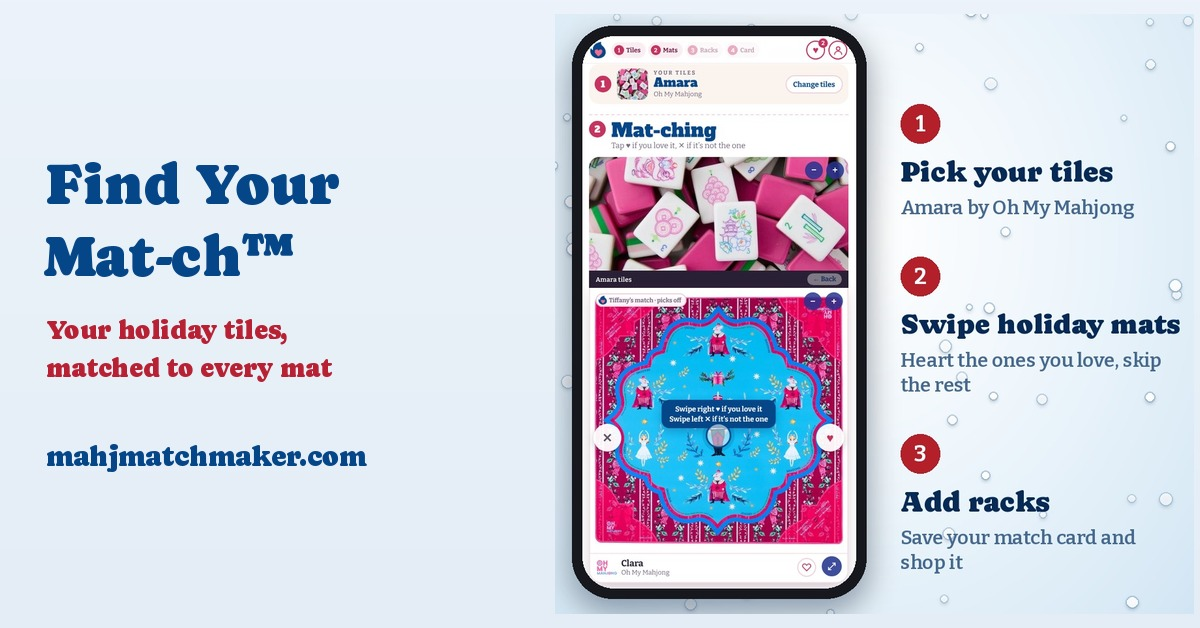
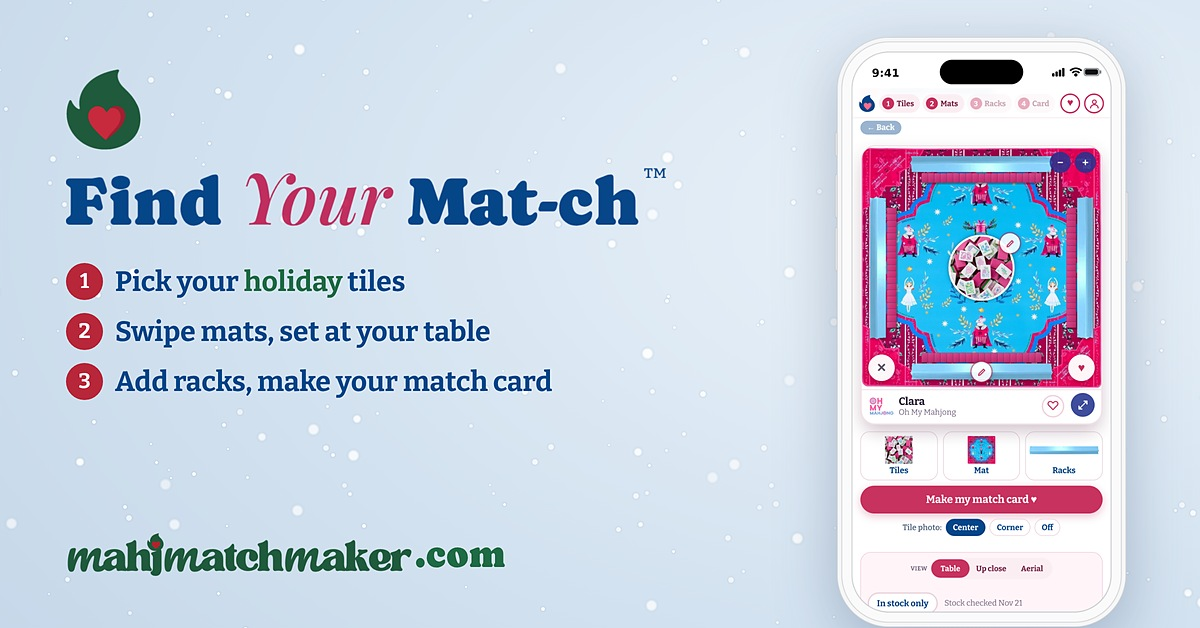
DM cards v2: holiday FYM card (white phone, snow, flame heart) + rainbow album wall from live covers
Claude-Session: https://claude.ai/code/session_01UWZfuwFYQL37EbBDGV2NZF

diff --git a/scripts/social/dmcards/albums_wall.py b/scripts/social/dmcards/albums_wall.py
@@ -1,0 +1,61 @@
+"""Rainbow album wall (Tiffany Nov 23 8:07pm): every LIVE album cover once, no repeats, no unreleased sets, no
+Cypress/Mahjong Row, real 4:5 proportions (never squashed), sorted into a rainbow; center badge in brand colours.
+Usage: albums_wall.py <out.jpg> [W H]   (renders at 2x then downsamples so it is crisp at its real size)"""
+import os, re, sys, random, colorsys
+from PIL import Image, ImageDraw, ImageFont, ImageFilter
+R = '/home/claude/mahjmatchmaker-data/'; F = R + 'scripts/social/tileprofile/fonts/'
+out = sys.argv[1]; OW, OH = (int(sys.argv[2]), int(sys.argv[3])) if len(sys.argv) > 3 else (1200, 628)
+S = 2; W, H = OW * S, OH * S
+live = set(re.findall(r'com/(.+?)-mahjong-tile-matches', open(R + 'config/album-urls.txt').read()))
+live |= {'papaya-spritz', 'spring-love', 'petalee', 'preppy-soiree', 'brownstone-bloom', 'juniper', 'deco-lagoon', 'lilac-soiree'}
+live -= {'cypress-forest'}
+D = R + 'assets/covers/albums/w800/'; covers = []
+for f in sorted(os.listdir(D)):
+    m = re.match(r'\d+-(.+?)-mahjong-tiles', f)
+    if m and m.group(1) in live: covers.append(D + f)
+def hue(p):
+    im = Image.open(p).convert('RGB').resize((40, 50)); px = list(im.getdata()); hs = []
+    for r, g, b in px:
+        h, s, v = colorsys.rgb_to_hsv(r / 255, g / 255, b / 255)
+        if s > .25 and v > .25: hs.append(h)
+    if not hs: return 0.995
+    hs.sort(); h = hs[len(hs) // 2]
+    return (h + 0.08) % 1.0   # start the rainbow at pink/red
+covers.sort(key=hue)
+random.seed(7)
+rows = 4 if OW / OH > 1.5 else 6
+cols = -(-len(covers) // rows)
+cw, ch = W / cols, H / rows
+ch_cov = int(ch * 1.28); cw_cov = int(ch_cov * 0.8)
+bg = Image.new('RGB', (W, H), (240, 232, 226)); canvas = bg.convert('RGBA')
+cells = [(c, r) for c in range(cols) for r in range(rows)]
+for i, p in enumerate(covers):
+    c, r = cells[i]
+    im = Image.open(p).convert('RGB'); im = im.resize((cw_cov, int(cw_cov * im.height / im.width)), Image.LANCZOS)
+    b = 10 * S // 2; card = Image.new('RGBA', (im.width + 2 * b, im.height + 2 * b), (255, 255, 255, 255)); card.paste(im, (b, b))
+    m = Image.new('L', card.size, 0); ImageDraw.Draw(m).rounded_rectangle((0, 0, card.width - 1, card.height - 1), 14 * S // 2, fill=255); card.putalpha(m)
+    card = card.rotate(random.uniform(-7, 7), Image.BICUBIC, expand=True)
+    x = int(c * cw + cw / 2 - card.width / 2 + random.uniform(-.12, .12) * cw); y = int(r * ch + ch / 2 - card.height / 2 + random.uniform(-.1, .1) * ch)
+    sh = Image.new('RGBA', canvas.size, (0, 0, 0, 0)); sh.paste((20, 10, 30, 80), (x + 4 * S, y + 8 * S), card.split()[3])
+    canvas.alpha_composite(sh.filter(ImageFilter.GaussianBlur(7 * S))); canvas.alpha_composite(card, (x, y))
+# center badge
+NAVY = (5, 70, 137); PINK = (200, 50, 95); CREAM = (253, 248, 246)
+bw, bh = int(W * .44), int(H * .44); x0, y0 = (W - bw) // 2, (H - bh) // 2
+sh = Image.new('RGBA', canvas.size, (0, 0, 0, 0)); ImageDraw.Draw(sh).rounded_rectangle((x0, y0 + 12 * S, x0 + bw, y0 + bh + 12 * S), 26 * S, fill=(10, 20, 50, 120))
+canvas.alpha_composite(sh.filter(ImageFilter.GaussianBlur(14 * S)))
+d = ImageDraw.Draw(canvas)
+d.rounded_rectangle((x0, y0, x0 + bw, y0 + bh), 26 * S, fill=CREAM)
+d.rounded_rectangle((x0 + 9 * S, y0 + 9 * S, x0 + bw - 9 * S, y0 + bh - 9 * S), 20 * S, outline=NAVY, width=4 * S)
+wm = Image.open(R + 'assets/brand/mahjmatchmaker-wordmark-notag.png').convert('RGBA'); ww = int(bw * .8); wm = wm.resize((ww, int(wm.height * ww / wm.width)), Image.LANCZOS)
+canvas.alpha_composite(wm, ((W - ww) // 2, y0 + int(bh * .13)))
+bit = lambda n, w=700: ImageFont.truetype(F + ('bitter-latin-700-normal.woff2' if w == 700 else 'bitter-latin-600-normal.woff2'), n)
+cap = lambda n: ImageFont.truetype(F + 'Caprasimo.ttf', n)
+t = 'MATCHING MAHJONG TILES, MATS & RACKS'; f = bit(int(bh * .062)); sp = 2 * S
+tw = sum(d.textlength(ch_, font=f) + sp for ch_ in t) - sp; py = y0 + int(bh * .47); hh = int(bh * .13)
+d.rounded_rectangle(((W - tw) / 2 - 18 * S, py, (W + tw) / 2 + 18 * S, py + hh), hh // 2, fill=PINK)
+x = (W - tw) / 2
+for ch_ in t: d.text((x, py + hh / 2), ch_, font=f, fill=(255, 255, 255), anchor='lm'); x += d.textlength(ch_, font=f) + sp
+d.text((W / 2, y0 + int(bh * .76)), f'{len(covers)}+ tile set albums and counting'.replace(f'{len(covers)}+', '40+'), font=cap(int(bh * .095)), fill=PINK, anchor='mm')
+d.text((W / 2, y0 + int(bh * .89)), 'mahjmatchmaker.com', font=bit(int(bh * .075), 600), fill=NAVY, anchor='mm')
+img = canvas.convert('RGB').resize((OW, OH), Image.LANCZOS).filter(ImageFilter.UnsharpMask(1.0, 60, 2))
+img.save(out, quality=93); print(out, len(covers), 'covers')

diff --git a/scripts/social/dmcards/fym_card.py b/scripts/social/dmcards/fym_card.py
@@ -1,0 +1,44 @@
+"""Holiday Find Your Mat-ch DM card (Tiffany Nov 23 8:07pm): WHITE phone, real-looking snow over ONE seamless
+background, flame-heart icon (holiday red/green), bullets, the real mahjmatchmaker wordmark + .com, crisp at size.
+Usage: fym_card.py <phone.png> <out.jpg> [W H]"""
+import sys, asyncio, random, base64
+from playwright.async_api import async_playwright
+from PIL import Image, ImageFilter
+R = '/home/claude/mahjmatchmaker-data/'; F = R + 'scripts/social/tileprofile/fonts/'
+import os; phone, out = os.path.abspath(sys.argv[1]), sys.argv[2]; W, H = (int(sys.argv[3]), int(sys.argv[4])) if len(sys.argv) > 4 else (1200, 628)
+u = lambda p: 'file://' + p
+random.seed(11)
+flakes = ''.join(
+    f'<i style="left:{random.uniform(-2,100):.2f}%;top:{random.uniform(-3,100):.2f}%;width:{s:.1f}px;height:{s:.1f}px;opacity:{random.uniform(.55,.95):.2f};filter:blur({b:.1f}px)"></i>'
+    for s, b in [(lambda s: (s, max(0, (s - 6) * .18)))(random.choice([2, 2.5, 3, 3, 4, 4, 5, 6, 8, 11])) for _ in range(260)])
+html = f"""<html><head><style>
+@font-face{{font-family:Cap;src:url({u(F+'Caprasimo.ttf')})}}@font-face{{font-family:Bit;font-weight:700;src:url({u(F+'bitter-latin-700-normal.woff2')})}}
+@font-face{{font-family:Bit;font-weight:600;src:url({u(F+'bitter-latin-600-normal.woff2')})}}
+html,body{{margin:0;width:{W}px;height:{H}px;overflow:hidden}}
+.bg{{position:absolute;inset:0;background:radial-gradient(130% 150% at 80% 35%,#eaf2f9 0%,#d3e2f0 45%,#bcd0e4 100%)}}
+.snow{{position:absolute;inset:0}}.snow i{{position:absolute;border-radius:50%;background:radial-gradient(circle,#fff 0 45%,rgba(255,255,255,.85) 60%,rgba(255,255,255,0) 72%);box-shadow:0 0 2px rgba(60,90,130,.25)}}
+.ph{{position:absolute;right:{int(W*.06)}px;top:{int(H*.06)}px;height:{int(H*.94)}px;filter:drop-shadow(0 18px 30px rgba(30,50,90,.28))}}
+.l{{position:absolute;left:{int(W*.055)}px;top:{int(H*.11)}px;width:{int(W*.55)}px;color:#054689;font-family:Bit}}
+.ic{{height:{int(H*.13)}px;display:block;margin-bottom:{int(H*.03)}px}}
+.lk{{width:{int(W*.5)}px;display:block}}
+ul{{list-style:none;padding:0;margin:{int(H*.06)}px 0 0;font-weight:700;font-size:{int(H*.046)}px;line-height:1.25}}
+li{{display:flex;gap:12px;align-items:center;margin:0 0 {int(H*.022)}px}}li b{{display:inline-flex;align-items:center;justify-content:center;width:{int(H*.06)}px;height:{int(H*.06)}px;border-radius:50%;background:#b8263a;color:#fff;font-size:{int(H*.034)}px;flex:none}}
+li span em{{font-style:normal;color:#1f6b45}}
+.wm{{position:absolute;left:{int(W*.055)}px;bottom:{int(H*.08)}px;display:flex;align-items:flex-end;gap:2px}}
+.wm img{{height:{int(H*.075)}px}}.wm span{{font-family:Cap;color:#1f6b45;font-size:{int(H*.062)}px;line-height:1;margin-bottom:{int(H*.008)}px}}
+</style></head><body><div class="bg"></div><div class="snow">{flakes}</div>
+<img class="ph" src="{u(phone)}">
+<div class="l"><img class="ic" src="{u(R+'assets/brand/flame-heart-holiday.png')}"><img class="lk" src="{u(R+'assets/brand/fym-lockup/find-your-mat-ch-lockup.png')}">
+<ul><li><b>1</b><span>Pick your <em>holiday</em> tiles</span></li><li><b>2</b><span>Swipe mats, set at your table</span></li><li><b>3</b><span>Add racks, make your match card</span></li></ul></div>
+<div class="wm"><img src="{u(R+'assets/brand/mahjmatchmaker-wordmark-holiday-notag.png')}"><span>.com</span></div>
+</body></html>"""
+open('/tmp/fymcard.html', 'w').write(html)
+async def main():
+    async with async_playwright() as p:
+        b = await p.chromium.launch(executable_path='/usr/bin/google-chrome', args=['--no-sandbox', '--allow-file-access-from-files'])
+        pg = await b.new_page(viewport={'width': W, 'height': H}, device_scale_factor=2)
+        await pg.goto('file:///tmp/fymcard.html'); await pg.wait_for_timeout(1500)
+        await pg.screenshot(path='/tmp/fymcard2x.png'); await b.close()
+asyncio.run(main())
+Image.open('/tmp/fymcard2x.png').convert('RGB').resize((W, H), Image.LANCZOS).filter(ImageFilter.UnsharpMask(1.0, 50, 2)).save(out, quality=93)
+print(out)

diff --git a/docs/ANSWERS.md b/docs/ANSWERS.md
@@ -1756,3 +1756,4 @@ Tiffany: tabletop room images look AI, don't want them. Use the clean flat/aeria
 - 2026-11-23 7:55pm Tiffany: no Cypress (Mahjong Row, burned us) in any graphic; holiday promos now; match card in a graphic must match its tiles/mat; loves the 3-phone FYM fan; albums card = the FB rainbow album wall; make vertical rainy-day versions; show the Christmas style carousel one last time and schedule it. Done now: DM cards swapped (holiday FYM card, rainbow wall with Origami Timber over Cypress) on both MATCH automations.
 - 2026-11-23 ~8:25pm DONE (Main): FYM preview r2f on /find-your-mat-ch-preview (index cb09d432, block d37c31bf): match card views Table view / Aerial / Close up / Phone view (Table first), Caprasimo J/Q line room, tour step 'Make my match card' replaces Adjust, racks remembered per hearted mat (r2e). Still to do next round: Brand Lock, favourites, rack depth (116 rack cuts), Aerial off-mat layout.
 - 2026-11-23 8:04pm Tiffany: post 'What's your Christmas style?' now with holiday hashtags (Merry Mahjong). Main scheduled it in Planoly for 8:12pm ET (IG carousel 10 slides, 12 brands tagged + FB Page), HQ card set to posted. She is unsure where evergreen/holiday content lives vs the launch grid rows: thinking aloud, no rule yet.
+- 2026-11-23 8:07-8:10pm Tiffany: DM cards redone (white phone, real snow on one background, holiday flame heart + wordmark .com, crisp; album wall rebuilt from live covers only, no repeats, no Origami/Cypress, 4:5 kept, brand pink). 8:10pm she cancelled the Christmas style CAROUSEL (deleted from Planoly before 8:12) -> make it a REEL instead with a classic Christmas catalog song so it auto-posts; Reels tab only.
